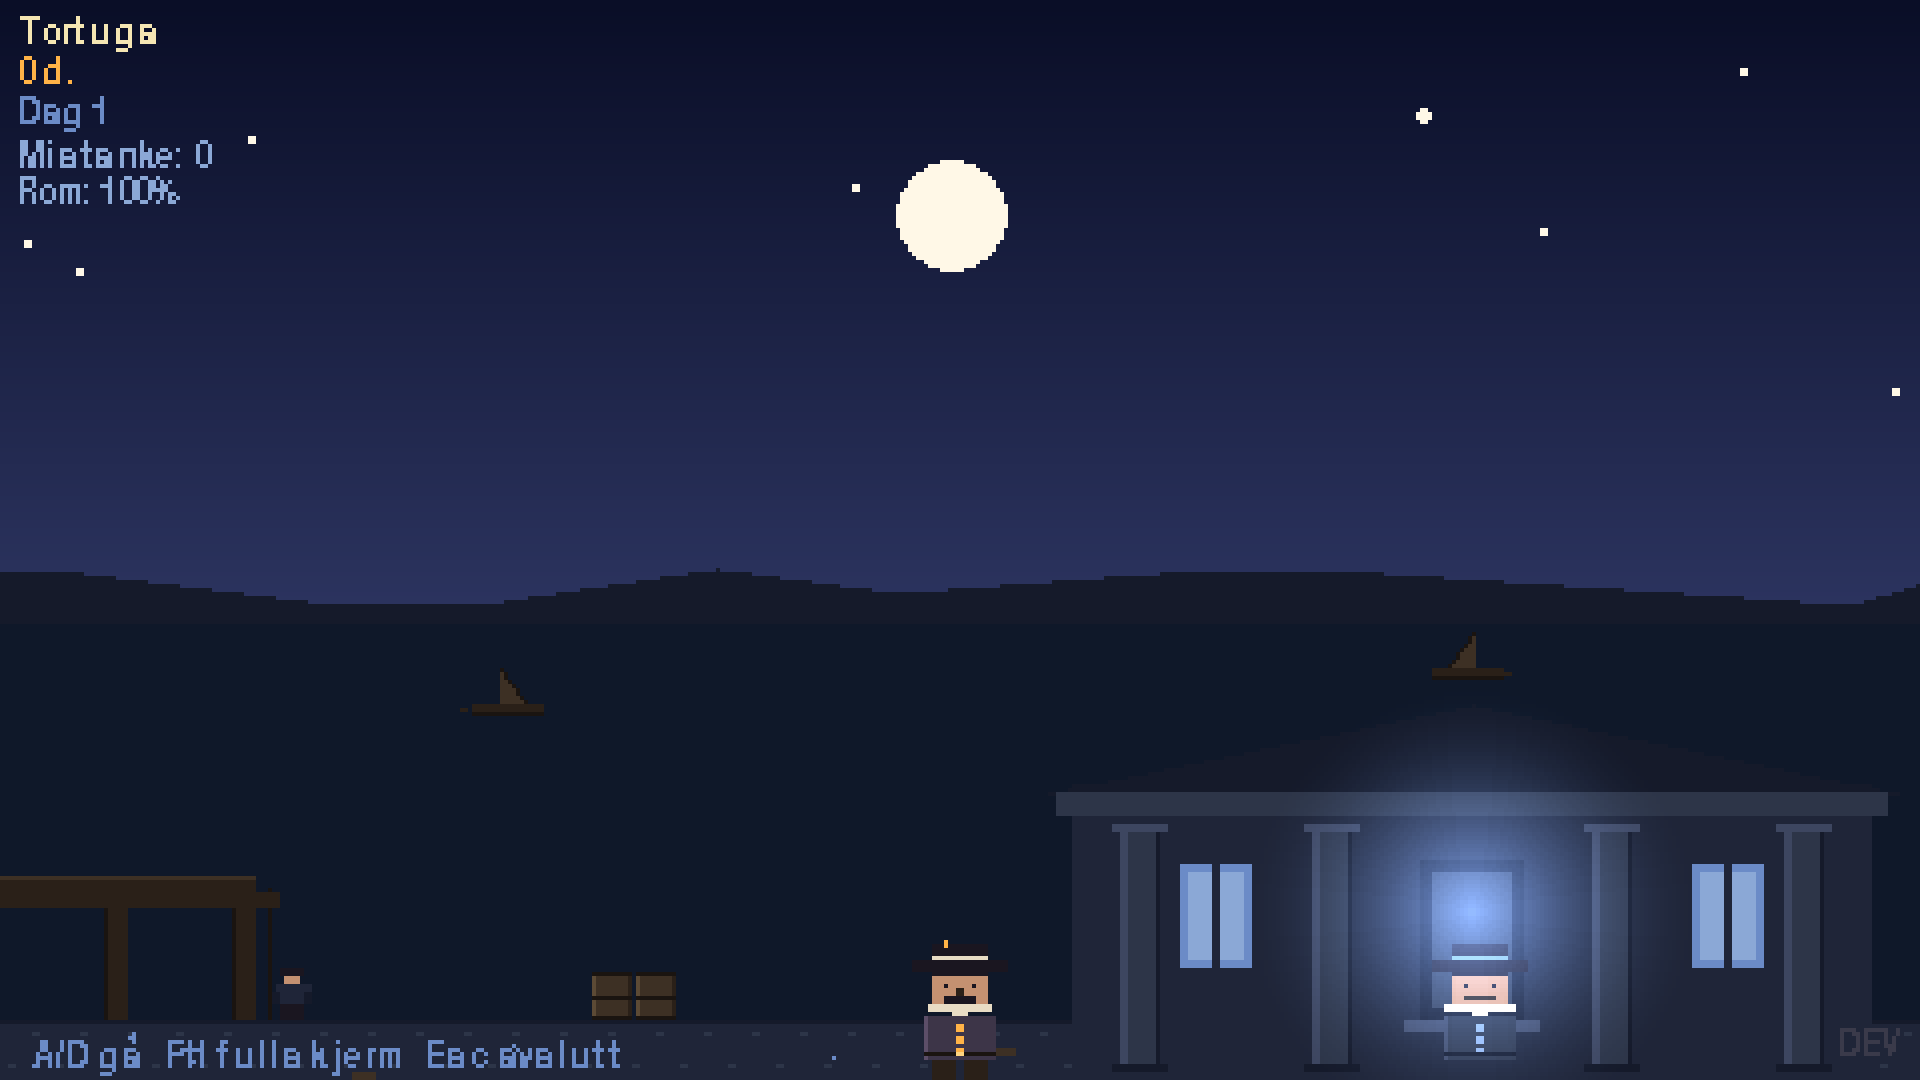
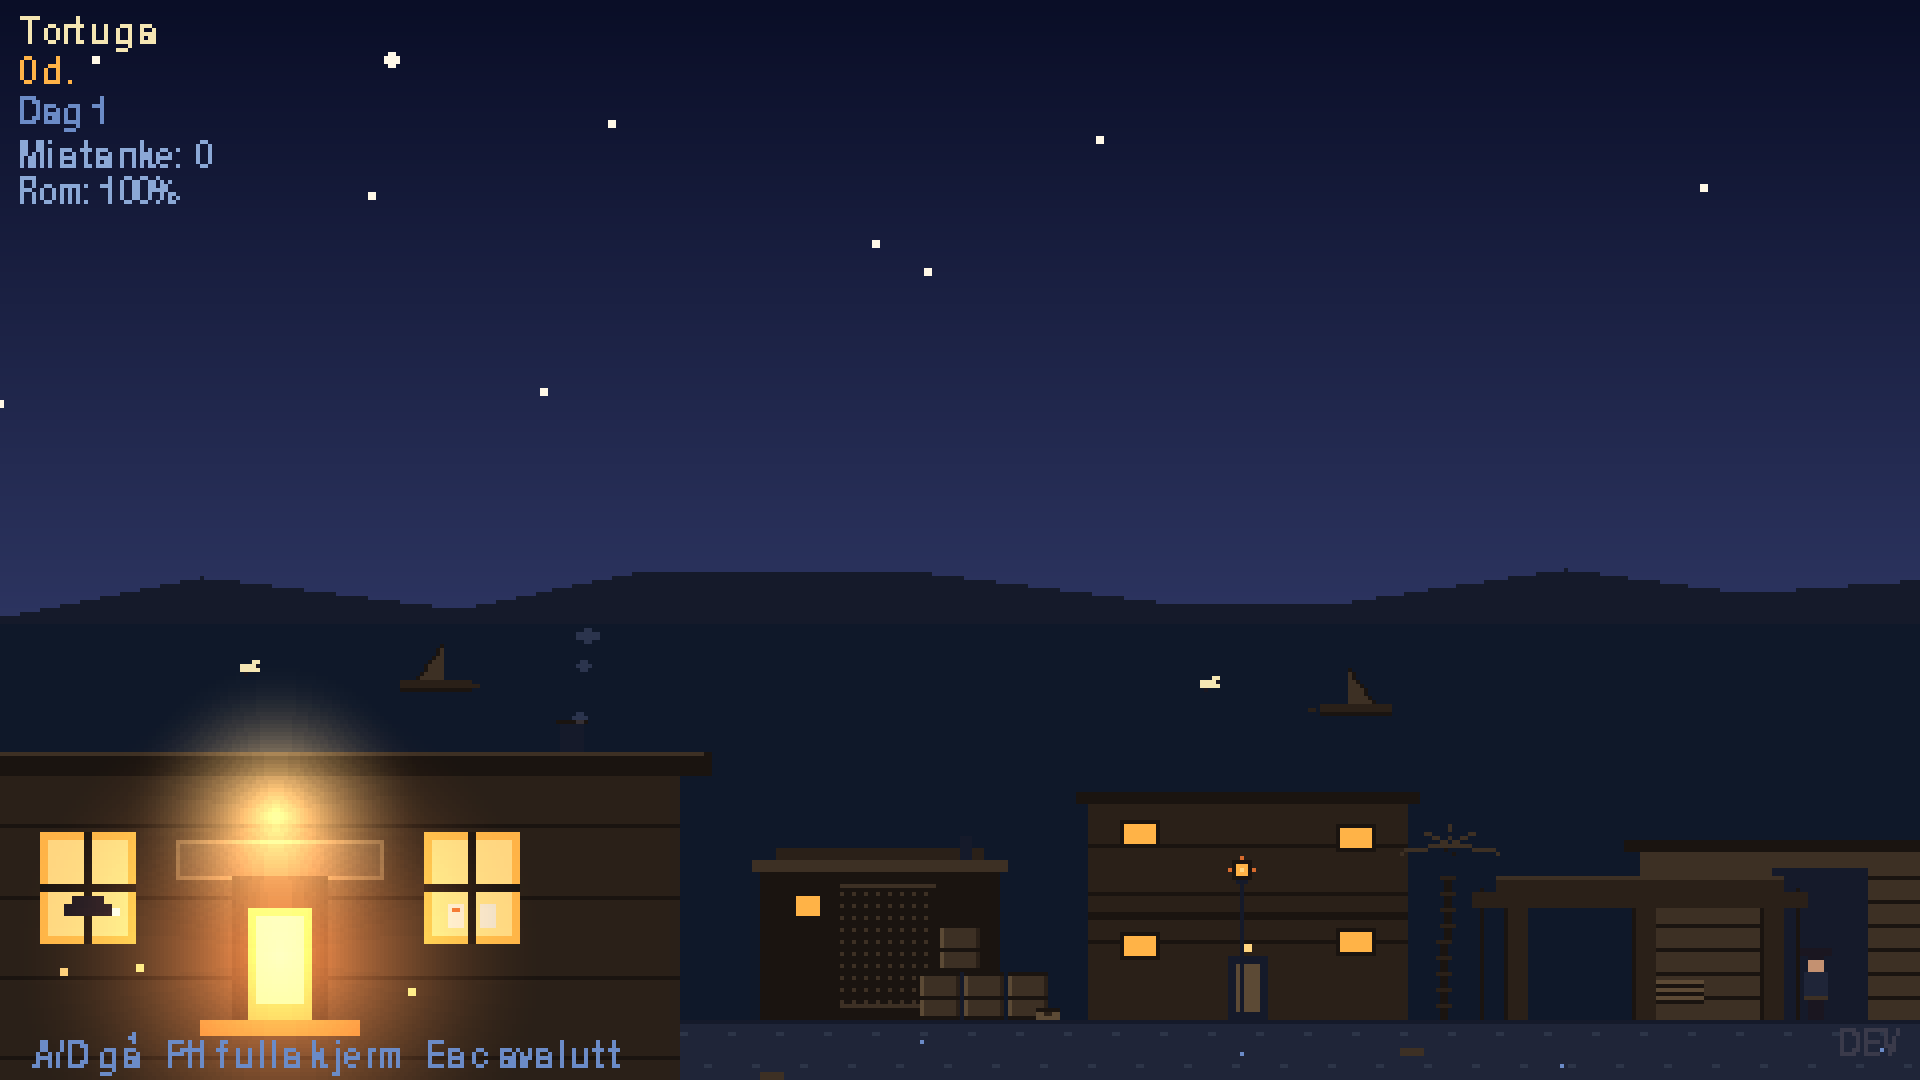
Roek-fix: skorsteiner tegnet eksplisitt + smoke-source matcher pixel
Brukerrapport: roek kom ut tilfeldig av hus, ikke fra spesifikk pipe.

1. scenes/port_buildings._bake_tavern: lagt til skorstein paa hoyre side
   av taket (x = tavern.x + tavern.w - 30, top y = tavern.y - 14, 6x8 px
   STONE_DARKEST med WOOD_DARKEST mursteins-aksent paa toppen).

2. systems/chimney_smoke: Tortuga-roek-kilder re-kalibrert til EKSAKT
   pipe-posisjoner:
   - Smie-esse: pipe ved bake_tortuga_smithy (x+6, y_top-10) =
     (896, 203). Smoke senterer over pipe (5px bred): x=898.
   - Tavern-pipe: chimney ved (190, 180) etter ny tegning. Smoke
     senterer over chimney (6px bred): x=193.

Eksakte verdier kommentert i koden saa fremtidige bygnings-flyttinger
er enkle aa speile i begge steder.

Tester (1057) groenne.

diff --git a/systems/chimney_smoke.py b/systems/chimney_smoke.py
@@ -107,13 +107,18 @@ def _make_default_sources_for_port(port_id: str) -> list[SmokeSource]:
     # i data/ports.json (etter Y-skalering 360→270). Hver kilde plasseres
     # ved chimney/skorstein-toppen til den respektive bygningen.
     if port_id == "tortuga":
-        # Tavern: x=20, w=200 (chimney på høyre side). y_top=194 etter
-        # migrering; røyk-kilde rett over taket.
-        # Smithy: x=890, w=70, h=42 (esse i midten). y_top=ground-h=255-42=213.
+        # Eksakt match mot pipe-posisjoner i bygnings-bake-funksjoner:
+        # - Smithy (fill_buildings.bake_tortuga_smithy): pipe ved
+        #   building.x + 6 = 896, top-y = building.y_top - 10 = 213-10 = 203.
+        #   Smoke-source senterer over pipe (5px bred): x=898.
+        # - Tavern (port_buildings._bake_tavern): chimney lagt til Fase 2.6
+        #   ved tavern.x + tavern.w - 30 = 20 + 200 - 30 = 190, chimney_top_y
+        #   = tavern.y - 14 = 194 - 14 = 180. Smoke-source senterer over
+        #   chimney (6px bred): x=193.
         return [
-            SmokeSource(x=920, y=210, kind="warm", period=0.32,
+            SmokeSource(x=898, y=203, kind="warm", period=0.32,
                         drift_x=4.0, rise_speed=18.0),  # smie-esse
-            SmokeSource(x=185, y=190, kind="cool", period=0.55,
+            SmokeSource(x=193, y=180, kind="cool", period=0.55,
                         drift_x=3.0, rise_speed=14.0),  # tavern-pipe
         ]
     if port_id == "port_royal":

diff --git a/scenes/port_buildings.py b/scenes/port_buildings.py
@@ -158,6 +158,19 @@ def _bake_tavern(
     pygame.draw.rect(
         surface, constants.COLOR_WOOD_MID, (x - 6, y - 6, w + 12, 1)
     )
+    # Skorstein (Fase 2.6: ChimneySmoke-systemet sender opp røyk fra
+    # akkurat denne posisjonen — eksakt match mot smoke-source x).
+    chimney_x = x + w - 30
+    chimney_top_y = y - 14
+    pygame.draw.rect(
+        surface, constants.COLOR_STONE_DARKEST,
+        (chimney_x, chimney_top_y, 6, 8),
+    )
+    # Brun mursteins-aksent på toppen
+    pygame.draw.rect(
+        surface, constants.COLOR_WOOD_DARKEST,
+        (chimney_x - 1, chimney_top_y, 8, 1),
+    )
 
     # To opplyste vinduer (natt: bakt varm glød; dag: mørke rektangler)
     window_w, window_h = 24, 28

diff --git a/tools/fase_2_6_assess.py b/tools/fase_2_6_assess.py
@@ -55,8 +55,8 @@ def render_village(force_day: bool):
     surf = pygame.Surface((constants.RENDER_WIDTH, constants.RENDER_HEIGHT)).convert()
     for _ in range(120):
         scene.update(0.0166)
-    # Sentrer kameraet på spilleren slik at vi ser den nye spriten.
-    scene._center_camera_on_player()
+    # Sentrer over taverna for å se røyk fra skorsteinen + spiller.
+    scene._camera.set_x(50.0)
     try:
         scene.draw(surf)
     except Exception as exc:
